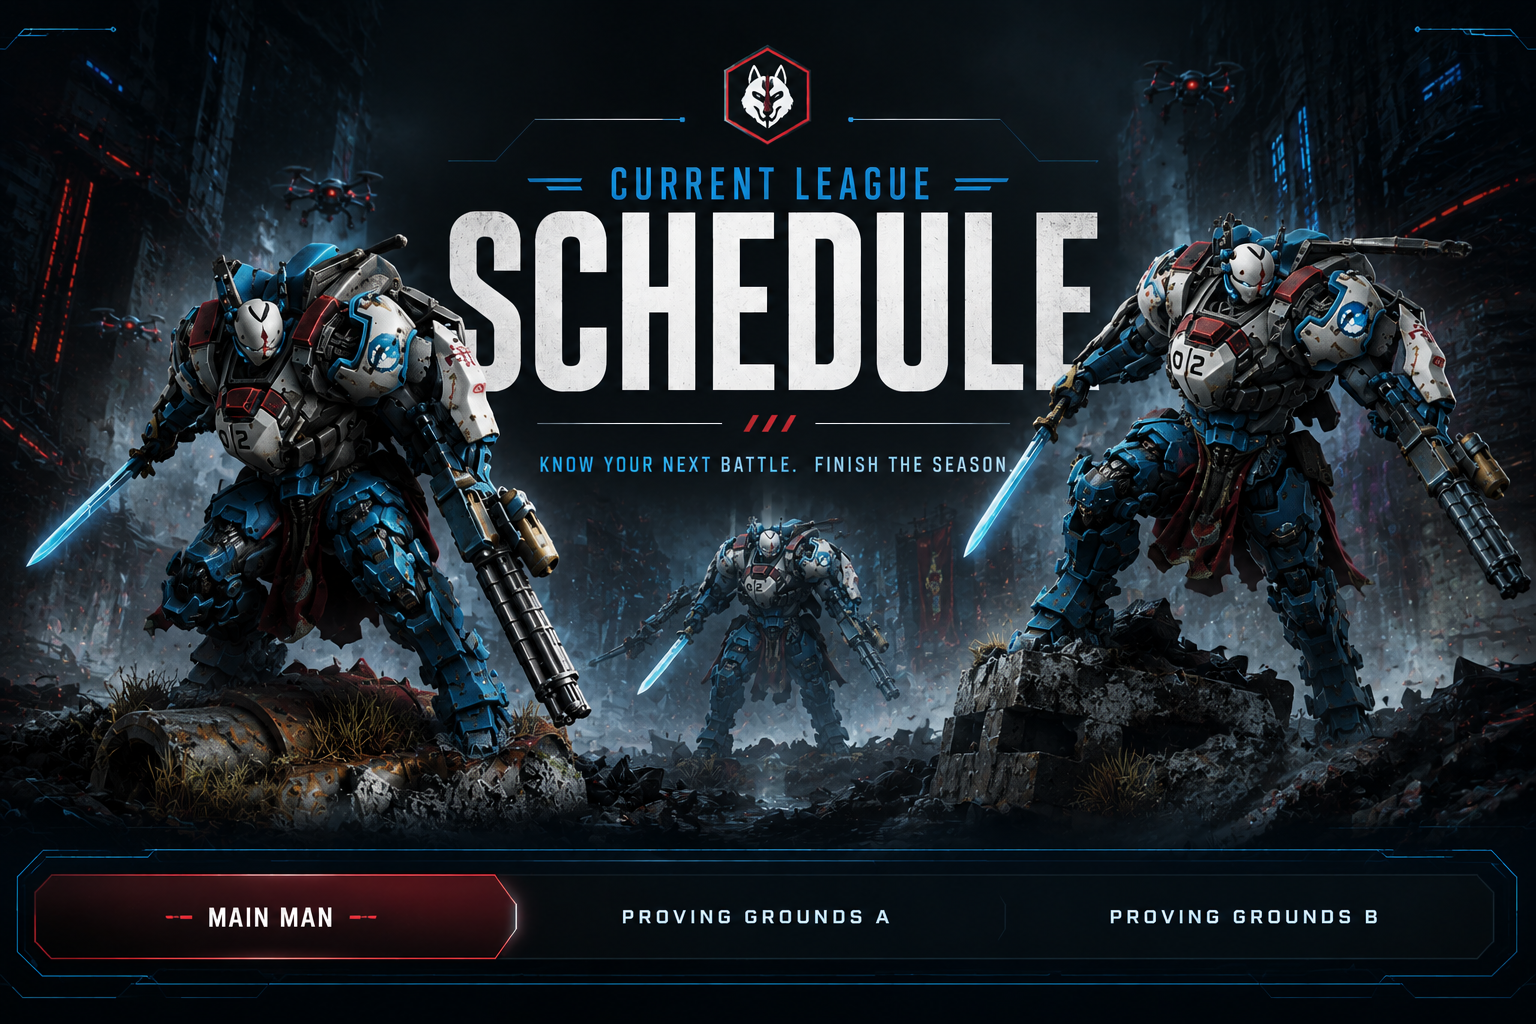
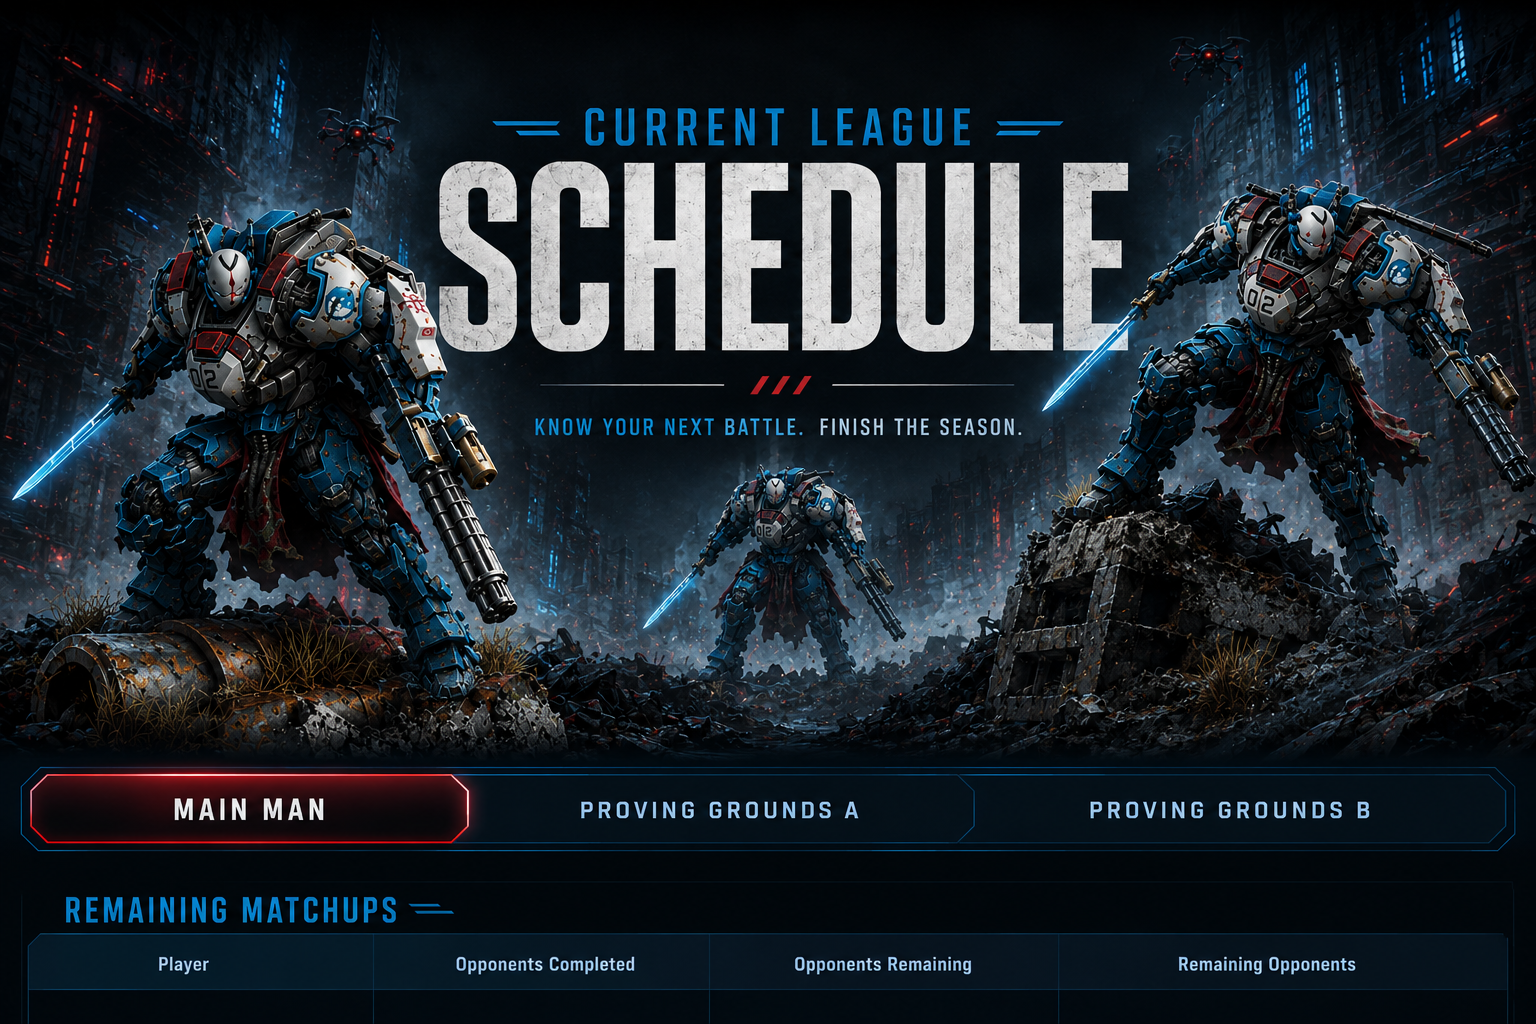
Update current league schedule hero

diff --git a/lobo-infinity-portal/src/public/SnapshotPublicApp.css b/lobo-infinity-portal/src/public/SnapshotPublicApp.css
@@ -1125,7 +1125,8 @@ main.snapshot-event-page[data-event="current-league-schedule"] {
 main.snapshot-event-page[data-event="current-league-schedule"] > .snapshot-event-hero {
   position: relative;
   min-height: 0;
-  aspect-ratio: 1536 / 820;
+  /* Top-anchored crop retains the title and all three figures; it removes only the decorative lower artwork controls. */
+  aspect-ratio: 1536 / 740;
   overflow: hidden;
   padding: 0;
   border-color: rgba(76, 201, 240, 0.3);
